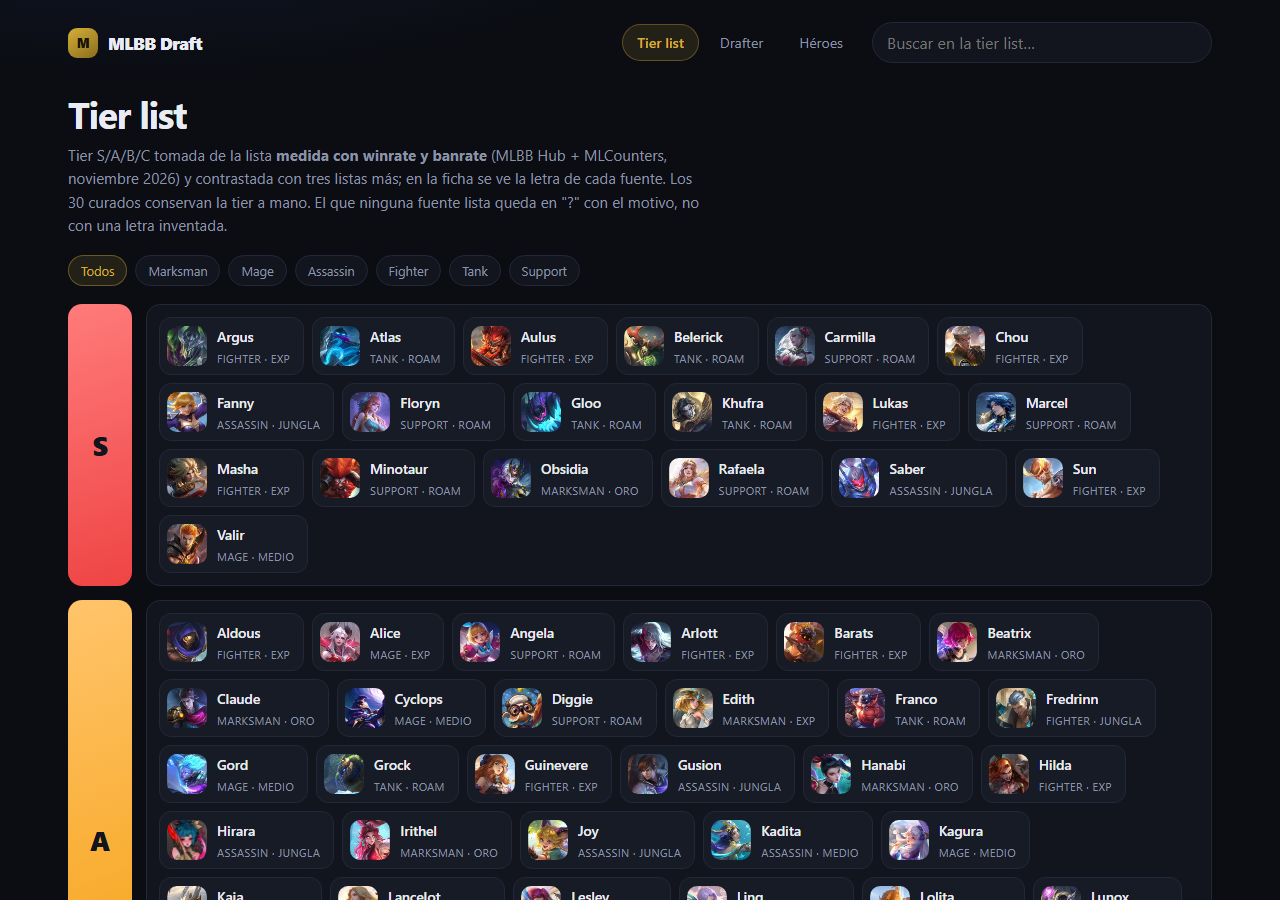
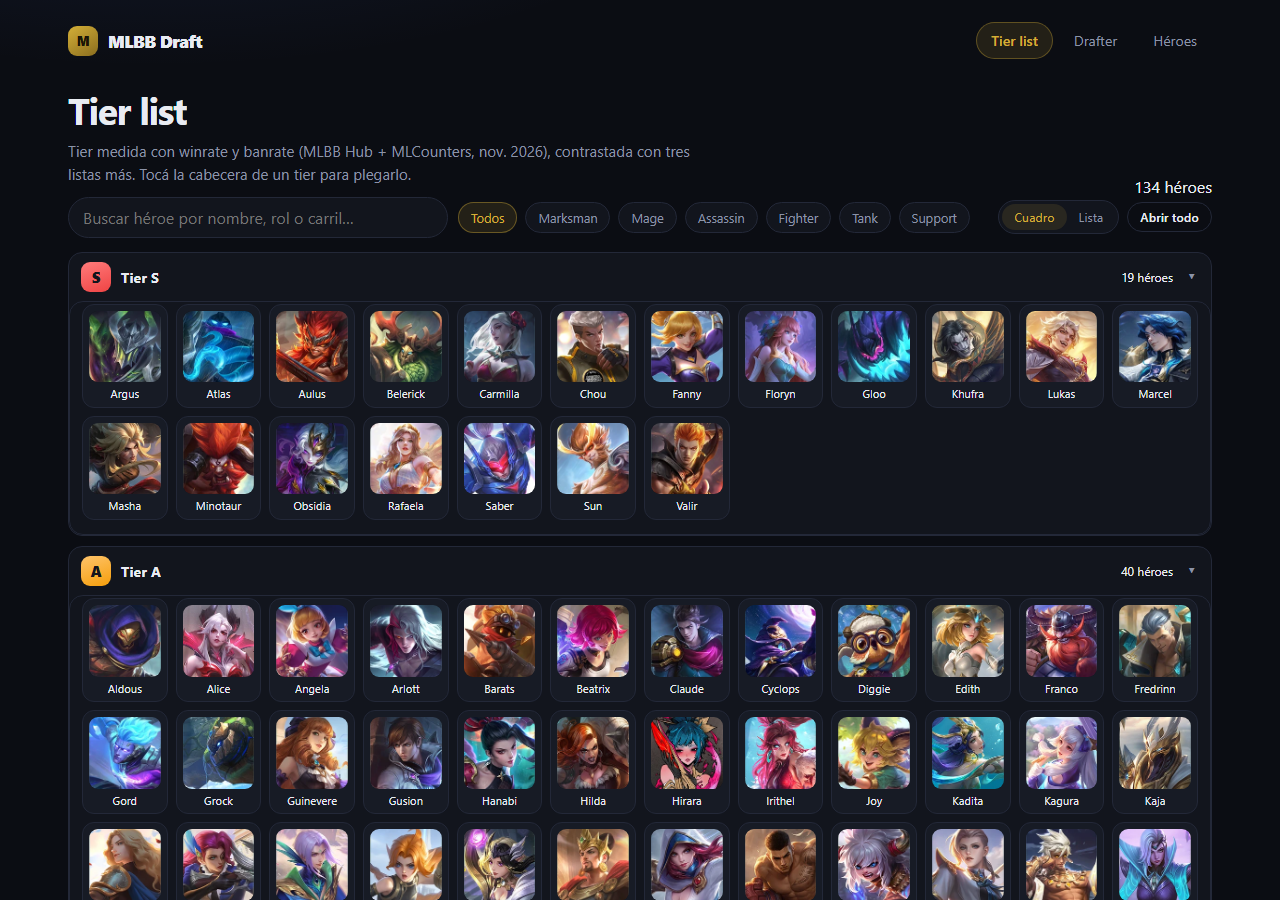
tier list: modo cuadro, tiers plegables y vista mobile
- Por defecto, grilla de retratos con el nombre abajo (modo cuadro); el modo
  lista sigue disponible desde el segmentado. Se recuerda en localStorage.
- Cada tier tiene cabecera propia con la letra, el conteo y un chevron: abre S
  y A, y B/C/? quedan plegados. Boton Abrir todo / Cerrar todo.
- Mobile: 4 columnas, header sticky, chips con scroll horizontal, buscador a
  todo el ancho y controles en su propia fila.
- Probado por CDP a 390x844: 59 fichas visibles por defecto, cambio a lista,
  expandir B y abrir todo (134 fichas).

diff --git a/assets/app.js b/assets/app.js
@@ -12,6 +12,8 @@ const estado = {
   rolPool: "",
   rolHeroes: "",
   busqueda: "",
+  tierModo: "cuadro", // "cuadro" (retratos) | "lista" (chips con rol)
+  tierAbiertos: new Set(["S", "A"]),
   busquedaPool: "",
   busquedaHeroes: "",
   activo: "alido", // qué equipo recibe el próximo pick
@@ -93,40 +95,117 @@ function pintarTier() {
   const visibles = estado.heroes.filter((h) => (!estado.rol || h.rol === estado.rol) && coincide(h));
   const contenedor = $("#tiers");
 
-  if (!visibles.length) {
-    contenedor.innerHTML = `<p class="vacio">Ningún héroe coincide con el filtro.</p>`;
-    return;
-  }
-
   const conteo = $("#conteo-tier");
   if (conteo) {
     conteo.textContent = `${visibles.length} ${visibles.length === 1 ? "héroe" : "héroes"}`;
   }
 
+  if (!visibles.length) {
+    contenedor.innerHTML = `<p class="vacio">Ningún héroe coincide con el filtro. Probá con otro nombre o
+      limpiá el buscador.</p>`;
+    return;
+  }
+
+  const ficha = (h) =>
+    estado.tierModo === "cuadro"
+      ? `<button class="ficha" type="button" data-heroe="${escapar(h.id)}"
+           title="${escapar(h.nombre)} · ${escapar(h.rol)} · ${escapar(h.carril)}">
+           ${avatar(h, 64)}
+           <span class="nombre">${escapar(h.nombre)}</span>
+         </button>`
+      : `<button class="heroe-mini" type="button" data-heroe="${escapar(h.id)}">
+           ${avatar(h, 28)}
+           <span><span class="nombre">${escapar(h.nombre)}</span><br>
+           <span class="rol">${escapar(h.rol)} · ${escapar(h.carril)}</span></span>
+         </button>`;
+
   contenedor.innerHTML = TIERS.map((tier) => {
     const grupo = visibles.filter((h) => h.tier === tier).sort((a, b) => a.nombre.localeCompare(b.nombre));
     if (!grupo.length) return "";
+    const abierto = estado.tierAbiertos.has(tier);
+    const etiqueta = tier === "?" ? "Sin fuente" : `Tier ${tier}`;
     return `
-      <div class="tier tier-${tier === "?" ? "sin" : tier.toLowerCase()}">
-        <div class="tier-letra">${tier === "?" ? "?" : tier}</div>
-        <div class="tier-cuerpo">
-          <div class="tier-grid">
-            ${grupo
-              .map(
-                (h) => `<button class="heroe-mini" type="button" data-heroe="${escapar(h.id)}">
-                  ${avatar(h, 40)}
-                  <span><span class="nombre">${escapar(h.nombre)}</span><br><span class="rol">${escapar(h.rol)} · ${escapar(h.carril)}</span></span>
-                </button>`,
-              )
-              .join("")}
+      <section class="tier tier-${tier === "?" ? "sin" : tier.toLowerCase()}" data-tier="${escapar(tier)}">
+        <button class="tier-cabecera" type="button" data-tier-toggle="${escapar(tier)}"
+          aria-expanded="${abierto}" aria-controls="tier-${escapar(tier)}">
+          <span class="tier-letra">${tier === "?" ? "?" : tier}</span>
+          <span class="tier-nombre">${etiqueta}</span>
+          <span class="meta">${grupo.length} ${grupo.length === 1 ? "héroe" : "héroes"}</span>
+          <span class="tier-flecha" aria-hidden="true">${abierto ? "▾" : "▸"}</span>
+        </button>
+        <div class="tier-cuerpo" id="tier-${escapar(tier)}" ${abierto ? "" : "hidden"}>
+          <div class="${estado.tierModo === "cuadro" ? "cuadricula" : "tier-grid"}">
+            ${grupo.map(ficha).join("")}
           </div>
         </div>
-      </div>`;
+      </section>`;
   }).join("");
 
   contenedor.querySelectorAll("[data-heroe]").forEach((boton) => {
     boton.addEventListener("click", () => abrirFicha(boton.dataset.heroe));
   });
+
+  contenedor.querySelectorAll("[data-tier-toggle]").forEach((boton) => {
+    boton.addEventListener("click", () => {
+      const tier = boton.dataset.tierToggle;
+      if (estado.tierAbiertos.has(tier)) estado.tierAbiertos.delete(tier);
+      else estado.tierAbiertos.add(tier);
+      guardarVistaTier();
+      pintarTier();
+    });
+  });
+}
+
+// El modo y los tiers abiertos se recuerdan: quien ya cerró C no quiere volver a
+// cerrarlo cada vez que entra.
+function guardarVistaTier() {
+  try {
+    localStorage.setItem(
+      "mlbb-tier",
+      JSON.stringify({ modo: estado.tierModo, abiertos: [...estado.tierAbiertos] }),
+    );
+  } catch {
+    // Sin storage queda en memoria.
+  }
+}
+
+function cargarVistaTier() {
+  try {
+    const guardado = JSON.parse(localStorage.getItem("mlbb-tier") ?? "{}");
+    if (guardado.modo === "lista" || guardado.modo === "cuadro") estado.tierModo = guardado.modo;
+    if (Array.isArray(guardado.abiertos)) estado.tierAbiertos = new Set(guardado.abiertos);
+  } catch {
+    // Un JSON viejo no rompe la vista.
+  }
+}
+
+function montarModoTier() {
+  const botones = { cuadro: $("#modo-cuadro"), lista: $("#modo-lista") };
+  const pintarModo = () => {
+    for (const [modo, boton] of Object.entries(botones)) {
+      if (boton) boton.setAttribute("aria-pressed", String(estado.tierModo === modo));
+    }
+  };
+  for (const [modo, boton] of Object.entries(botones)) {
+    if (!boton) continue;
+    boton.addEventListener("click", () => {
+      estado.tierModo = modo;
+      guardarVistaTier();
+      pintarModo();
+      pintarTier();
+    });
+  }
+  const abrirTodo = $("#abrir-todo");
+  if (abrirTodo) {
+    abrirTodo.addEventListener("click", () => {
+      const todosAbiertos = estado.tierAbiertos.size >= TIERS.length;
+      estado.tierAbiertos = todosAbiertos ? new Set() : new Set(TIERS);
+      abrirTodo.textContent = todosAbiertos ? "Abrir todo" : "Cerrar todo";
+      guardarVistaTier();
+      pintarTier();
+    });
+  }
+  pintarModo();
 }
 
 function pintarHeroes() {
@@ -918,6 +997,8 @@ async function iniciar() {
     mostrarVista(vistaInicial);
   }
 
+  cargarVistaTier();
+  montarModoTier();
   montarChips($("#chips-rol"), () => estado.rol, (rol) => (estado.rol = rol), pintarTier);
   montarChips($("#chips-pool"), () => estado.rolPool, (rol) => (estado.rolPool = rol), pintarPool);
   montarChips($("#chips-heroes"), () => estado.rolHeroes, (rol) => (estado.rolHeroes = rol), pintarHeroes);

diff --git a/assets/style.css b/assets/style.css
@@ -303,3 +303,94 @@ h1 { font-size: clamp(1.6rem, 3.4vw, 2.3rem); letter-spacing: -0.03em; margin: 0
 .barra-filtros { display: flex; align-items: center; gap: 10px; flex-wrap: wrap; margin-bottom: 14px; }
 .barra-filtros .buscador { flex: 1 1 240px; max-width: 380px; }
 .barra-filtros .chips { margin: 0; }
+/* ---------- tier list v2: cabecera plegable y modo cuadro ---------- */
+.tier {
+  display: block; background: var(--panel); border: 1px solid var(--borde);
+  border-radius: 14px; margin-bottom: 10px; overflow: hidden;
+}
+.tier-cabecera {
+  display: flex; align-items: center; gap: 10px; width: 100%; padding: 9px 12px;
+  background: transparent; border: 0; color: inherit; font: inherit; text-align: left;
+  cursor: pointer; touch-action: manipulation;
+}
+.tier-cabecera:hover { background: rgba(255, 255, 255, 0.03); }
+.tier-letra {
+  width: 30px; height: 30px; border-radius: 9px; display: grid; place-items: center;
+  font-weight: 900; font-size: 0.95rem; color: #12151d; flex: none;
+}
+.tier-nombre { font-weight: 700; font-size: 0.9rem; }
+.tier-cabecera .meta { margin-left: auto; font-size: 0.75rem; }
+.tier-flecha { width: 16px; text-align: center; color: var(--apagado); }
+.tier-cuerpo { padding: 2px 12px 14px; }
+
+.cuadricula { display: grid; grid-template-columns: repeat(auto-fill, minmax(84px, 1fr)); gap: 8px; }
+.ficha {
+  display: flex; flex-direction: column; align-items: center; gap: 5px; width: 100%;
+  background: var(--panel-2); border: 1px solid var(--borde); border-radius: 12px;
+  padding: 6px; color: inherit; font: inherit; cursor: pointer; touch-action: manipulation;
+}
+.ficha .heroe-avatar {
+  width: 100%; height: auto; aspect-ratio: 1; border-radius: 9px;
+  object-fit: cover; object-position: center 15%;
+}
+.ficha .nombre {
+  font-size: 0.7rem; line-height: 1.2; width: 100%; text-align: center;
+  overflow: hidden; text-overflow: ellipsis; white-space: nowrap;
+}
+.ficha:hover { border-color: rgba(212, 175, 55, 0.5); }
+.ficha:focus-visible { outline: 2px solid var(--oro); outline-offset: 2px; }
+
+/* Chips de la barra: sin wrap en mobile, scroll horizontal */
+.vista-controles { display: flex; align-items: center; gap: 8px; margin-left: auto; }
+.segmentado {
+  display: inline-flex; background: var(--panel); border: 1px solid var(--borde);
+  border-radius: 999px; padding: 3px;
+}
+.segmentado button {
+  border: 0; background: transparent; color: var(--apagado); font: inherit;
+  font-size: 0.78rem; padding: 5px 12px; border-radius: 999px; cursor: pointer;
+  touch-action: manipulation;
+}
+.segmentado button[aria-pressed="true"] { background: var(--oro-suave); color: var(--oro); }
+
+@media (max-width: 680px) {
+  .envoltura { padding: 16px 12px 60px; }
+  .encabezado {
+    position: sticky; top: 0; z-index: 20; background: var(--fondo);
+    padding: 10px 0 8px; margin-bottom: 14px; border-bottom: 1px solid var(--borde);
+  }
+  .marca { font-size: 1rem; }
+  .nav { width: 100%; order: 3; }
+  .nav button { flex: 1; }
+
+  h1 { font-size: 1.45rem; }
+  .sub { font-size: 0.86rem; margin-bottom: 12px; }
+
+  .barra-filtros { gap: 8px; }
+  .barra-filtros .buscador { flex: 1 1 100%; max-width: none; }
+  .vista-controles { margin-left: 0; width: 100%; justify-content: space-between; }
+
+  .chips {
+    flex-wrap: nowrap; overflow-x: auto; padding-bottom: 4px; margin-bottom: 0;
+    scrollbar-width: none;
+  }
+  .chips::-webkit-scrollbar { display: none; }
+  .chip { flex: 0 0 auto; }
+
+  .cuadricula { grid-template-columns: repeat(auto-fill, minmax(72px, 1fr)); gap: 6px; }
+  .ficha { padding: 5px; border-radius: 10px; }
+  .ficha .nombre { font-size: 0.64rem; }
+
+  .tier-cabecera { padding: 8px 10px; }
+  .tier-cuerpo { padding: 2px 10px 10px; }
+  .tier-nombre { font-size: 0.84rem; }
+
+  .grilla { grid-template-columns: repeat(auto-fill, minmax(150px, 1fr)); gap: 8px; }
+  .tarjeta { padding: 10px; }
+  .tarjeta h3 { font-size: 0.9rem; }
+}
+
+@media (max-width: 380px) {
+  .cuadricula { grid-template-columns: repeat(auto-fill, minmax(64px, 1fr)); }
+}
+

diff --git a/index.html b/index.html
@@ -34,7 +34,7 @@
       <div>
         <h1>Tier list</h1>
         <p class="sub">Tier medida con winrate y banrate (MLBB Hub + MLCounters, nov. 2026), contrastada con
-          tres listas más. La ficha muestra la letra de cada fuente.</p>
+          tres listas más. Tocá la cabecera de un tier para plegarlo.</p>
       </div>
       <span class="meta" id="conteo-tier" aria-live="polite"></span>
     </div>
@@ -43,6 +43,13 @@
       <input class="buscador" id="buscador-tier" type="search" placeholder="Buscar héroe por nombre, rol o carril…"
         aria-label="Buscar héroe en la tier list">
       <div class="chips" id="chips-rol" role="group" aria-label="Filtrar por rol"></div>
+      <div class="vista-controles">
+        <div class="segmentado" role="group" aria-label="Cómo ver la tier list">
+          <button type="button" id="modo-cuadro" aria-pressed="true">Cuadro</button>
+          <button type="button" id="modo-lista" aria-pressed="false">Lista</button>
+        </div>
+        <button class="boton secundario chico" type="button" id="abrir-todo">Abrir todo</button>
+      </div>
     </div>
 
     <div id="tiers"></div>

diff --git a/README.md b/README.md
@@ -32,6 +32,13 @@ S+ se muestra como S y D como C, para no abrir seis filas. Los 30 héroes curado
 tier. **Un héroe que ninguna fuente lista queda en "?" con el motivo escrito** (hoy: Dori, que salió
 después de las listas). Preferimos eso a inventarle una letra.
 
+La vista arranca en **modo cuadro** (retratos en grilla, nombre abajo) y se puede cambiar a **lista** con
+rol y carril. Cada tier se **pliega** con un toque en su cabecera: por defecto abren S y A, y B/C/? quedan
+cerrados para que la página no sea un scroll eterno. El modo y los tiers abiertos se recuerdan en el
+navegador. En el celular la grilla pasa a 4 columnas y el encabezado queda fijo.
+
+![Tier list en el celular](docs/tierlist-mobile.png)
+
 La ficha también trae lo que las fuentes midieron ("54.6% win rate in ranked"), con el texto original.
 
 ### Drafter
